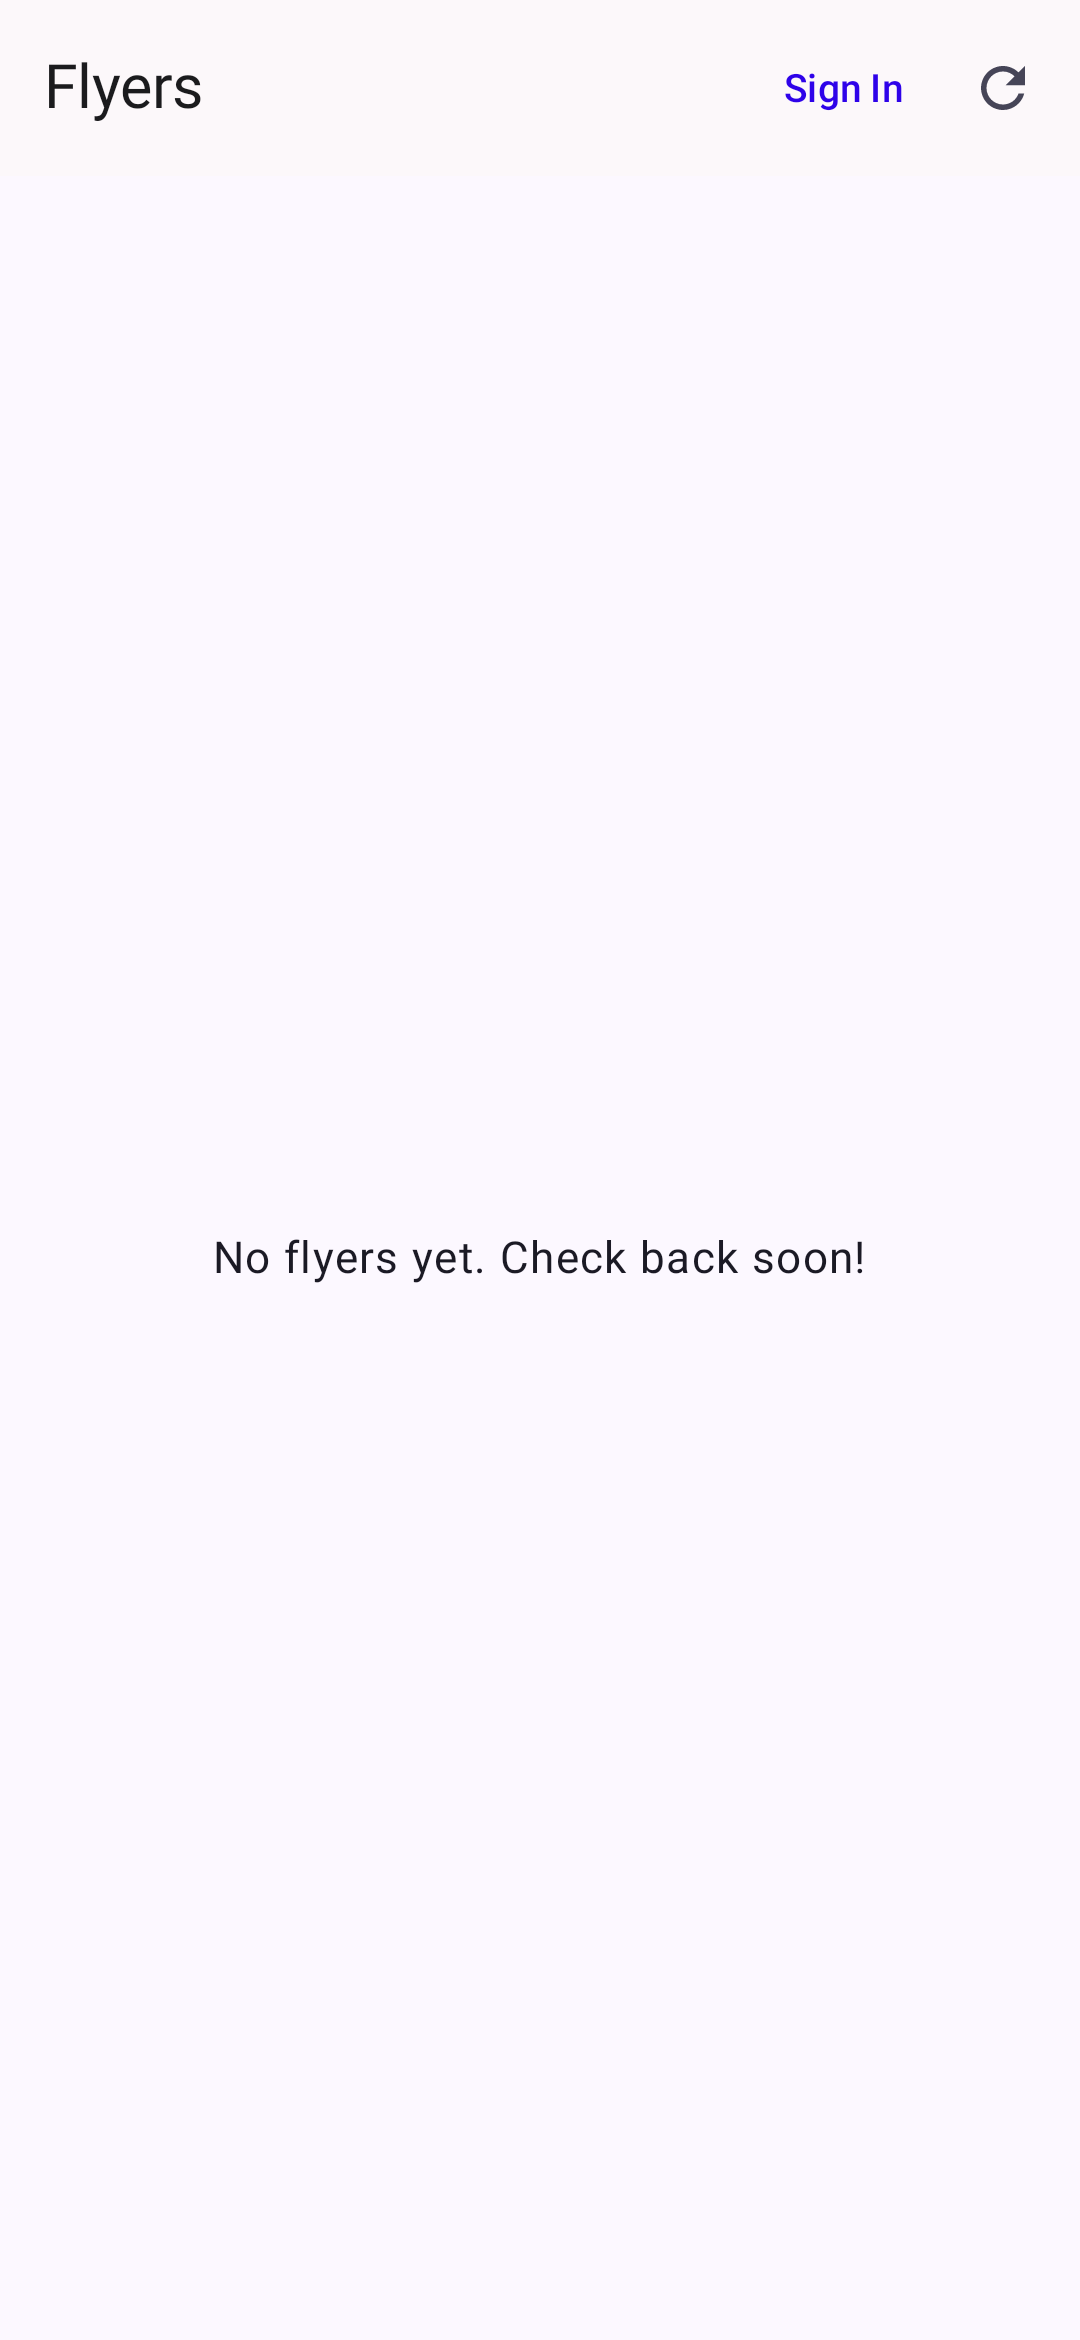
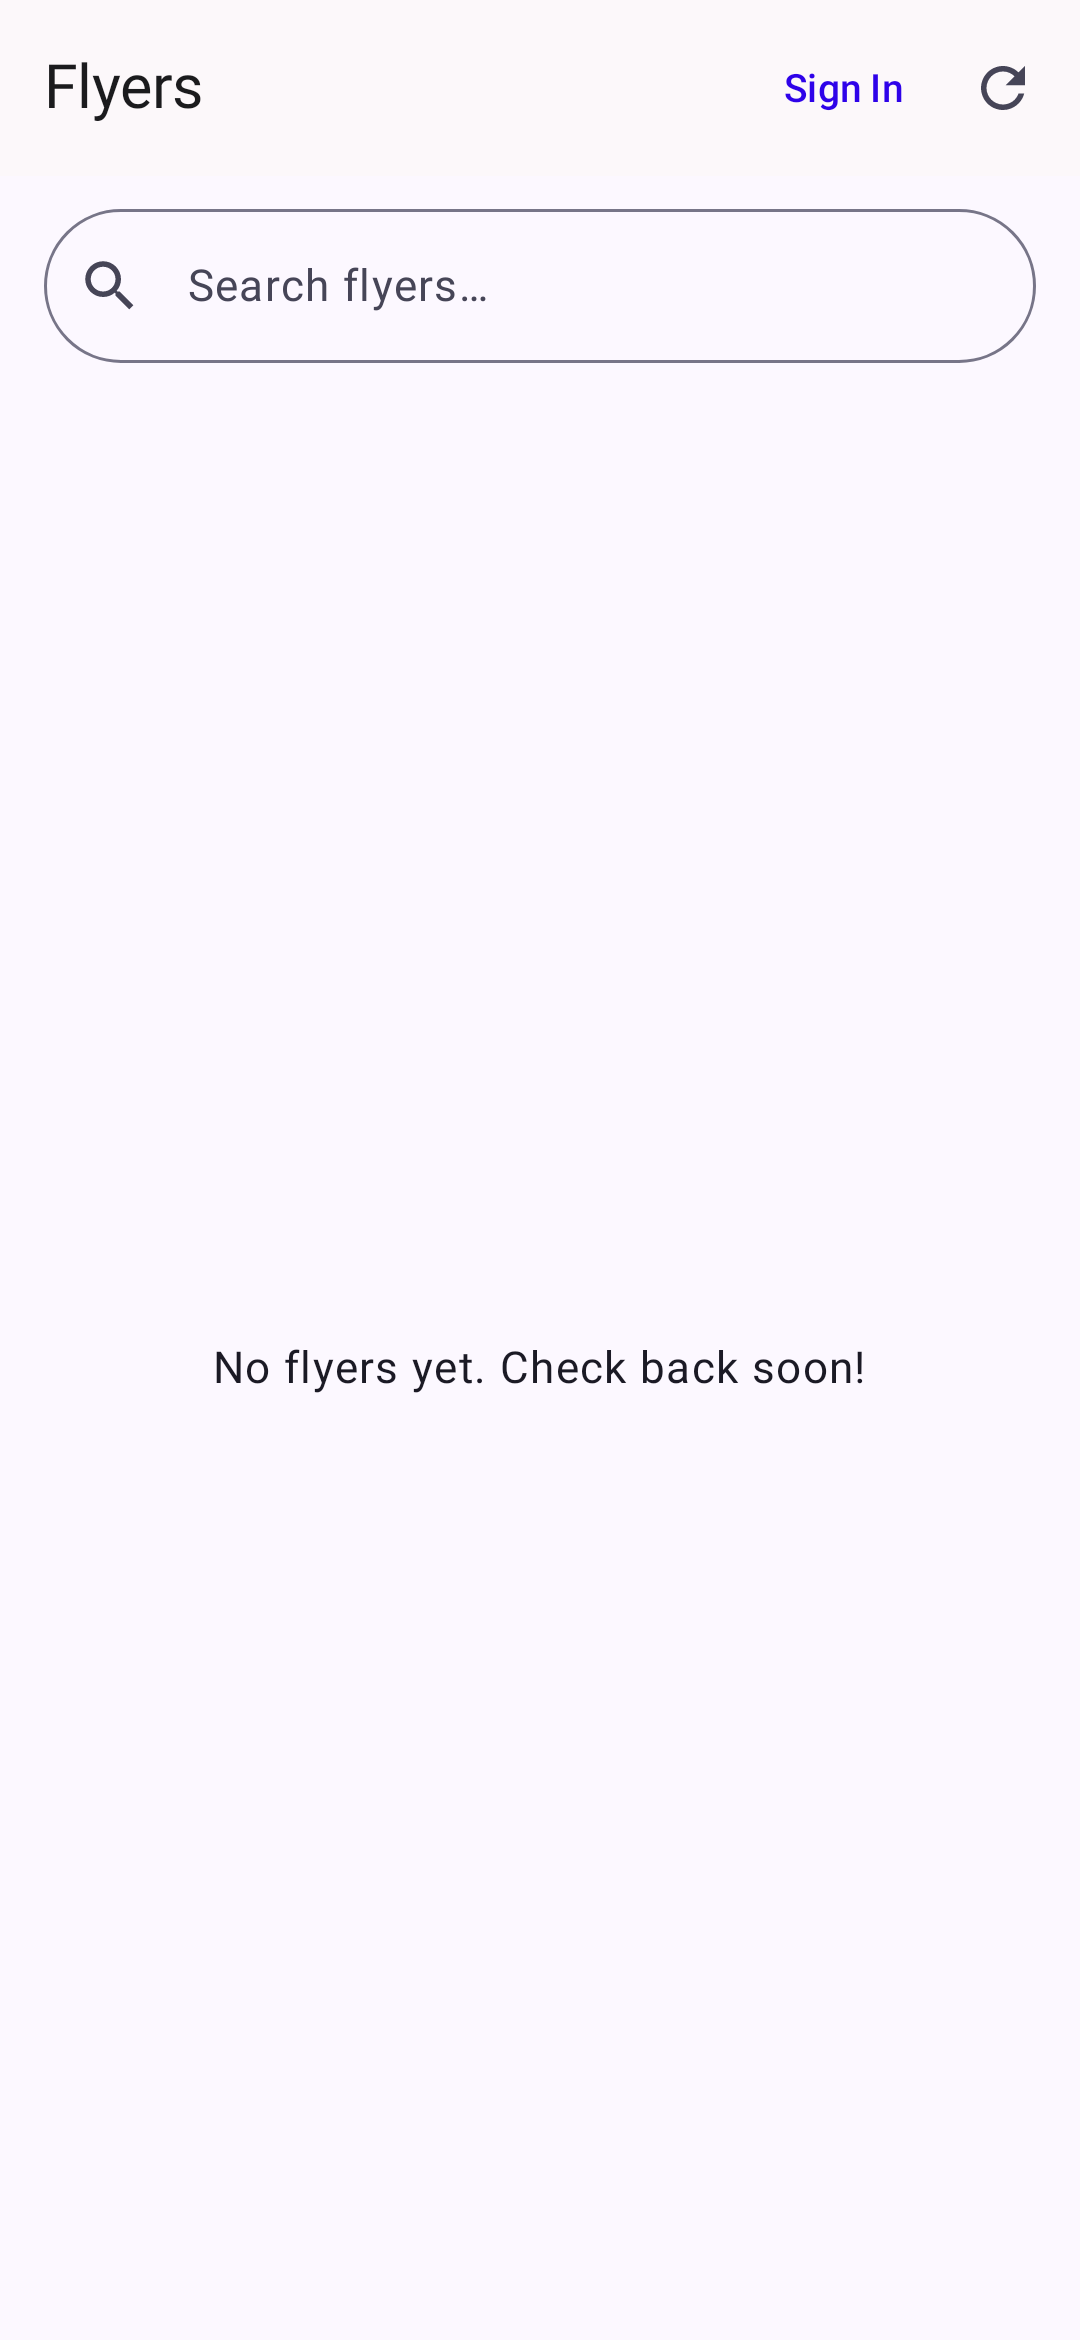
[FLYERBOARD] Update flyerlist to be closer to mocks

diff --git a/flyerboard/front-end/shared-app/src/commonMain/kotlin/com/cramsan/flyerboard/client/lib/features/main/flyer_list/FlyerListScreen.kt b/flyerboard/front-end/shared-app/src/commonMain/kotlin/com/cramsan/flyerboard/client/lib/features/main/flyer_list/FlyerListScreen.kt
@@ -2,16 +2,21 @@ package com.cramsan.flyerboard.client.lib.features.main.flyer_list
 
 import androidx.compose.foundation.layout.Arrangement
 import androidx.compose.foundation.layout.Box
+import androidx.compose.foundation.layout.Column
 import androidx.compose.foundation.layout.PaddingValues
 import androidx.compose.foundation.layout.fillMaxSize
 import androidx.compose.foundation.layout.padding
-import androidx.compose.foundation.lazy.LazyColumn
-import androidx.compose.foundation.lazy.items
+import androidx.compose.foundation.lazy.staggeredgrid.LazyVerticalStaggeredGrid
+import androidx.compose.foundation.lazy.staggeredgrid.StaggeredGridCells
+import androidx.compose.foundation.lazy.staggeredgrid.items
 import androidx.compose.material.icons.Icons
+import androidx.compose.material.icons.filled.Add
 import androidx.compose.material.icons.filled.Refresh
 import androidx.compose.material3.ExperimentalMaterial3Api
+import androidx.compose.material3.FloatingActionButton
 import androidx.compose.material3.Icon
 import androidx.compose.material3.IconButton
+import androidx.compose.material3.MaterialTheme
 import androidx.compose.material3.Scaffold
 import androidx.compose.material3.Text
 import androidx.compose.material3.TextButton
@@ -20,10 +25,12 @@ import androidx.compose.runtime.Composable
 import androidx.compose.runtime.collectAsState
 import androidx.compose.runtime.getValue
 import androidx.compose.ui.Modifier
+import androidx.compose.ui.unit.dp
 import androidx.lifecycle.Lifecycle
 import androidx.lifecycle.compose.LifecycleEventEffect
 import com.cramsan.flyerboard.client.lib.models.FlyerModel
 import com.cramsan.flyerboard.client.ui.components.EmptyStateBox
+import com.cramsan.flyerboard.client.ui.components.FlyerBoardSearchBar
 import com.cramsan.flyerboard.client.ui.components.FlyerCard
 import com.cramsan.flyerboard.client.ui.components.LoadingStateBox
 import com.cramsan.framework.core.compose.ui.ObserveViewModelEvents
@@ -33,6 +40,7 @@ import flyerboard_lib.app_bar_action_sign_in
 import flyerboard_lib.app_bar_action_sign_out
 import flyerboard_lib.flyer_list_screen_button_submit
 import flyerboard_lib.flyer_list_screen_empty_message
+import flyerboard_lib.flyer_list_screen_search_placeholder
 import flyerboard_lib.flyer_list_screen_title
 import org.jetbrains.compose.resources.stringResource
 import org.koin.compose.viewmodel.koinViewModel
@@ -67,6 +75,7 @@ fun FlyerListScreen(
         onSignIn = onSignIn,
         onSignOut = onSignOut,
         onRefresh = { viewModel.refresh() },
+        onQueryChanged = { viewModel.onQueryChanged(it) },
         onSubmitFlyer = { viewModel.onSubmitFlyer() },
         onFlyerSelected = { viewModel.onFlyerSelected(it.id) },
     )
@@ -84,6 +93,7 @@ internal fun FlyerListContent(
     onSignIn: () -> Unit = {},
     onSignOut: () -> Unit = {},
     onRefresh: () -> Unit,
+    onQueryChanged: (String) -> Unit = {},
     onSubmitFlyer: () -> Unit = {},
     onFlyerSelected: (FlyerModel) -> Unit = {},
 ) {
@@ -94,9 +104,6 @@ internal fun FlyerListContent(
                 title = { Text(stringResource(Res.string.flyer_list_screen_title)) },
                 actions = {
                     if (isAuthenticated) {
-                        TextButton(onClick = onSubmitFlyer) {
-                            Text(stringResource(Res.string.flyer_list_screen_button_submit))
-                        }
                         TextButton(onClick = onSignOut) {
                             Text(stringResource(Res.string.app_bar_action_sign_out))
                         }
@@ -114,35 +121,63 @@ internal fun FlyerListContent(
                 },
             )
         },
-    ) { innerPadding ->
-        Box(modifier = Modifier.padding(innerPadding).fillMaxSize()) {
-            when (val state = uiState) {
-                is FlyerListUIState.Loading -> {
-                    LoadingStateBox()
-                }
-
-                is FlyerListUIState.Empty,
-                is FlyerListUIState.Error,
-                -> {
-                    EmptyStateBox(
-                        message = stringResource(Res.string.flyer_list_screen_empty_message),
+        floatingActionButton = {
+            if (isAuthenticated) {
+                FloatingActionButton(
+                    onClick = onSubmitFlyer,
+                    containerColor = MaterialTheme.colorScheme.secondaryContainer,
+                    contentColor = MaterialTheme.colorScheme.onSecondaryContainer,
+                ) {
+                    Icon(
+                        imageVector = Icons.Default.Add,
+                        contentDescription = stringResource(Res.string.flyer_list_screen_button_submit),
                     )
                 }
+            }
+        },
+    ) { innerPadding ->
+        Column(
+            modifier = Modifier.padding(innerPadding).fillMaxSize(),
+        ) {
+            FlyerBoardSearchBar(
+                query = uiState.query,
+                onQueryChange = onQueryChanged,
+                placeholder = stringResource(Res.string.flyer_list_screen_search_placeholder),
+                modifier = Modifier.padding(horizontal = Padding.MEDIUM, vertical = Padding.SMALL),
+            )
+            Box(modifier = Modifier.fillMaxSize()) {
+                when (val state = uiState) {
+                    is FlyerListUIState.Loading -> {
+                        LoadingStateBox()
+                    }
 
-                is FlyerListUIState.Content -> {
-                    LazyColumn(
-                        modifier = Modifier.fillMaxSize(),
-                        contentPadding = PaddingValues(Padding.MEDIUM),
-                        verticalArrangement = Arrangement.spacedBy(Padding.SMALL),
-                    ) {
-                        items(state.flyers, key = { it.id.flyerId }) { flyer ->
-                            FlyerCard(
-                                title = flyer.title,
-                                description = flyer.description,
-                                imageUrl = flyer.fileUrl,
-                                expiresAt = flyer.expiresAt,
-                                onClick = { onFlyerSelected(flyer) },
-                            )
+                    is FlyerListUIState.Empty,
+                    is FlyerListUIState.Error,
+                    -> {
+                        EmptyStateBox(
+                            message = stringResource(Res.string.flyer_list_screen_empty_message),
+                        )
+                    }
+
+                    is FlyerListUIState.Content -> {
+                        LazyVerticalStaggeredGrid(
+                            columns = StaggeredGridCells.Adaptive(minSize = GRID_COLUMN_MIN_WIDTH),
+                            modifier = Modifier.fillMaxSize(),
+                            contentPadding = PaddingValues(Padding.MEDIUM),
+                            horizontalArrangement = Arrangement.spacedBy(Padding.SMALL),
+                            verticalItemSpacing = Padding.SMALL,
+                        ) {
+                            items(state.flyers, key = { it.id.flyerId }) { flyer ->
+                                FlyerCard(
+                                    title = flyer.title,
+                                    description = flyer.description,
+                                    imageUrl = flyer.fileUrl,
+                                    expiresAt = flyer.expiresAt,
+                                    accentColor = flyerAccentColor(flyer.id.flyerId.hashCode()),
+                                    uploaderHandle = "@${flyer.uploaderId.userId}",
+                                    onClick = { onFlyerSelected(flyer) },
+                                )
+                            }
                         }
                     }
                 }
@@ -150,3 +185,14 @@ internal fun FlyerListContent(
         }
     }
 }
+
+@Composable
+private fun flyerAccentColor(seed: Int) =
+    listOf(
+        MaterialTheme.colorScheme.primaryContainer,
+        MaterialTheme.colorScheme.tertiaryContainer,
+        MaterialTheme.colorScheme.secondaryContainer,
+    )[(seed % ACCENT_COLOR_COUNT).let { if (it < 0) it + ACCENT_COLOR_COUNT else it }]
+
+private const val ACCENT_COLOR_COUNT = 3
+private val GRID_COLUMN_MIN_WIDTH = 280.dp

diff --git a/flyerboard/front-end/shared-app/src/commonMain/kotlin/com/cramsan/flyerboard/client/lib/features/main/flyer_list/FlyerListViewModel.kt b/flyerboard/front-end/shared-app/src/commonMain/kotlin/com/cramsan/flyerboard/client/lib/features/main/flyer_list/FlyerListViewModel.kt
@@ -17,24 +17,24 @@ import kotlinx.coroutines.launch
 class FlyerListViewModel(dependencies: ViewModelDependencies, private val flyerManager: FlyerManager) :
     BaseViewModel<FlyerListEvent, FlyerListUIState>(dependencies, FlyerListUIState.Initial, TAG) {
     /**
-     * Load the initial page of public flyers.
+     * Load the initial page of public flyers, optionally filtered by [query].
      */
-    fun loadFlyers() {
-        logI(TAG, "loadFlyers")
+    fun loadFlyers(query: String? = null) {
+        logI(TAG, "loadFlyers query=$query")
         viewModelCoroutineScope.launch {
-            updateUiState { FlyerListUIState.Loading }
+            updateUiState { FlyerListUIState.Loading(query = query ?: "") }
             flyerManager
-                .listFlyers()
+                .listFlyers(query = query)
                 .onSuccess { paginated ->
                     updateUiState {
                         if (paginated.flyers.isEmpty()) {
-                            FlyerListUIState.Empty
+                            FlyerListUIState.Empty(query = query ?: "")
                         } else {
-                            FlyerListUIState.Content(paginated.flyers)
+                            FlyerListUIState.Content(flyers = paginated.flyers, query = query ?: "")
                         }
                     }
                 }.onFailure { error ->
-                    updateUiState { FlyerListUIState.Error(error.message ?: "Unknown error") }
+                    updateUiState { FlyerListUIState.Error(error.message ?: "Unknown error", query = query ?: "") }
                     emitWindowEvent(
                         FlyerBoardWindowsEvent.ShowSnackbar(
                             message = "Failed to load flyers: ${error.message}",
@@ -45,11 +45,20 @@ class FlyerListViewModel(dependencies: ViewModelDependencies, private val flyerM
     }
 
     /**
-     * Reload the flyer list from the beginning.
+     * Reload the flyer list preserving the current search query.
      */
     fun refresh() {
         logI(TAG, "refresh")
-        loadFlyers()
+        val currentQuery = uiState.value.query.takeIf { it.isNotEmpty() }
+        loadFlyers(query = currentQuery)
+    }
+
+    /**
+     * Update the search query and reload results.
+     */
+    fun onQueryChanged(q: String) {
+        logI(TAG, "onQueryChanged q=$q")
+        loadFlyers(query = q.takeIf { it.isNotEmpty() })
     }
 
     /**

diff --git a/flyerboard/front-end/shared-ui/src/commonMain/kotlin/com/cramsan/flyerboard/client/ui/components/FlyerCard.kt b/flyerboard/front-end/shared-ui/src/commonMain/kotlin/com/cramsan/flyerboard/client/ui/components/FlyerCard.kt
@@ -1,8 +1,11 @@
 package com.cramsan.flyerboard.client.ui.components
 
+import androidx.compose.foundation.background
 import androidx.compose.foundation.layout.Arrangement
+import androidx.compose.foundation.layout.Box
 import androidx.compose.foundation.layout.Column
 import androidx.compose.foundation.layout.fillMaxWidth
+import androidx.compose.foundation.layout.height
 import androidx.compose.foundation.layout.padding
 import androidx.compose.material3.Card
 import androidx.compose.material3.ExperimentalMaterial3Api
@@ -12,10 +15,16 @@ import androidx.compose.material3.SuggestionChipDefaults
 import androidx.compose.material3.Text
 import androidx.compose.runtime.Composable
 import androidx.compose.ui.Modifier
+import androidx.compose.ui.graphics.Color
 import androidx.compose.ui.text.font.FontWeight
 import com.cramsan.ui.theme.Padding
 
-/** Clickable card displaying a flyer's image, [title], [description], and optional [expiresAt] badge. */
+/**
+ * Clickable card displaying a flyer's image, [title], [description], and optional [expiresAt] badge.
+ *
+ * An optional [accentColor] renders a colored stripe along the top of the card, and an optional
+ * [uploaderHandle] renders the uploader's handle (e.g. "@username") below the description.
+ */
 @OptIn(ExperimentalMaterial3Api::class)
 @Composable
 fun FlyerCard(
@@ -23,6 +32,8 @@ fun FlyerCard(
     description: String,
     imageUrl: String? = null,
     expiresAt: String? = null,
+    accentColor: Color? = null,
+    uploaderHandle: String? = null,
     modifier: Modifier = Modifier,
     onClick: () -> Unit,
 ) {
@@ -31,6 +42,15 @@ fun FlyerCard(
         onClick = onClick,
     ) {
         Column {
+            accentColor?.let { color ->
+                Box(
+                    modifier =
+                    Modifier
+                        .fillMaxWidth()
+                        .height(Padding.XX_SMALL)
+                        .background(color),
+                )
+            }
             FlyerAsyncImage(
                 url = imageUrl,
                 contentDescription = title,
@@ -65,6 +85,13 @@ fun FlyerCard(
                             labelColor = MaterialTheme.colorScheme.onTertiaryContainer,
                         ),
                         border = null,
+                    )
+                }
+                uploaderHandle?.let { handle ->
+                    Text(
+                        text = handle,
+                        style = MaterialTheme.typography.labelSmall,
+                        color = MaterialTheme.colorScheme.outline,
                     )
                 }
             }

diff --git a/flyerboard/front-end/shared-app/src/commonMain/kotlin/com/cramsan/flyerboard/client/lib/features/main/flyer_list/FlyerListUIState.kt b/flyerboard/front-end/shared-app/src/commonMain/kotlin/com/cramsan/flyerboard/client/lib/features/main/flyer_list/FlyerListUIState.kt
@@ -7,19 +7,22 @@ import com.cramsan.framework.core.compose.ViewModelUIState
  * UI state for the Flyer List screen.
  */
 sealed class FlyerListUIState : ViewModelUIState {
+    /** The current search query, shared by all states so the search bar always has a value. */
+    abstract val query: String
+
     /** Flyers are being fetched. */
-    data object Loading : FlyerListUIState()
+    data class Loading(override val query: String = "") : FlyerListUIState()
 
     /** Flyers loaded successfully with at least one item. */
-    data class Content(val flyers: List<FlyerModel>) : FlyerListUIState()
+    data class Content(val flyers: List<FlyerModel>, override val query: String = "") : FlyerListUIState()
 
     /** Flyers loaded successfully but the list is empty. */
-    data object Empty : FlyerListUIState()
+    data class Empty(override val query: String = "") : FlyerListUIState()
 
     /** Loading failed; detail is shown in a snackbar. */
-    data class Error(val message: String) : FlyerListUIState()
+    data class Error(val message: String, override val query: String = "") : FlyerListUIState()
 
     companion object {
-        val Initial: FlyerListUIState = Loading
+        val Initial: FlyerListUIState = Loading()
     }
 }

diff --git a/flyerboard/front-end/shared-app/src/commonMain/kotlin/com/cramsan/flyerboard/client/lib/features/main/flyer_list/FlyerListPreview.kt b/flyerboard/front-end/shared-app/src/commonMain/kotlin/com/cramsan/flyerboard/client/lib/features/main/flyer_list/FlyerListPreview.kt
@@ -6,6 +6,7 @@ import com.cramsan.flyerboard.client.ui.theme.AppTheme
 import com.cramsan.flyerboard.lib.model.FlyerId
 import com.cramsan.flyerboard.lib.model.FlyerStatus
 import com.cramsan.flyerboard.lib.model.UserId
+import com.cramsan.ui.preview.DevicePreviews
 import com.cramsan.ui.preview.ScreenPreviews
 
 private val sampleFlyers =
@@ -34,7 +35,7 @@ private val sampleFlyers =
         ),
     )
 
-@ScreenPreviews
+@DevicePreviews
 @Composable
 private fun FlyerListScreenPreview() =
     AppTheme(dynamicColor = false) {
@@ -49,7 +50,7 @@ private fun FlyerListScreenPreview() =
 /**
  * Preview for the Flyer List screen with content.
  */
-@ScreenPreviews
+@DevicePreviews
 @Composable
 private fun FlyerListScreenAuthenticatedPreview() =
     AppTheme {
@@ -69,7 +70,7 @@ private fun FlyerListScreenAuthenticatedPreview() =
 private fun FlyerListScreenLoadingPreview() =
     AppTheme {
         FlyerListContent(
-            uiState = FlyerListUIState.Loading,
+            uiState = FlyerListUIState.Loading(),
             isAuthenticated = false,
             onRefresh = {},
             onFlyerSelected = {},
@@ -84,7 +85,7 @@ private fun FlyerListScreenLoadingPreview() =
 private fun FlyerListScreenEmptyPreview() =
     AppTheme {
         FlyerListContent(
-            uiState = FlyerListUIState.Empty,
+            uiState = FlyerListUIState.Empty(),
             isAuthenticated = false,
             onRefresh = {},
             onFlyerSelected = {},

diff --git a/flyerboard/front-end/shared-app/src/commonMain/kotlin/com/cramsan/flyerboard/client/lib/features/splash/SplashScreen.kt b/flyerboard/front-end/shared-app/src/commonMain/kotlin/com/cramsan/flyerboard/client/lib/features/splash/SplashScreen.kt
@@ -64,6 +64,7 @@ fun SplashScreen(
 /**
  * Content of the Splash screen.
  */
+@Suppress("UnusedParameter")
 @Composable
 internal fun SplashContent(
     content: SplashUIState,

diff --git a/flyerboard/front-end/shared-app/src/commonMain/kotlin/com/cramsan/flyerboard/client/lib/features/splash/SplashScreen.preview.kt b/flyerboard/front-end/shared-app/src/commonMain/kotlin/com/cramsan/flyerboard/client/lib/features/splash/SplashScreen.preview.kt
@@ -2,7 +2,6 @@ package com.cramsan.flyerboard.client.lib.features.splash
 
 import androidx.compose.runtime.Composable
 import com.cramsan.ui.preview.DevicePreviews
-import com.cramsan.ui.preview.ScreenPreviews
 
 /**
  * Preview for the Splash feature screen.